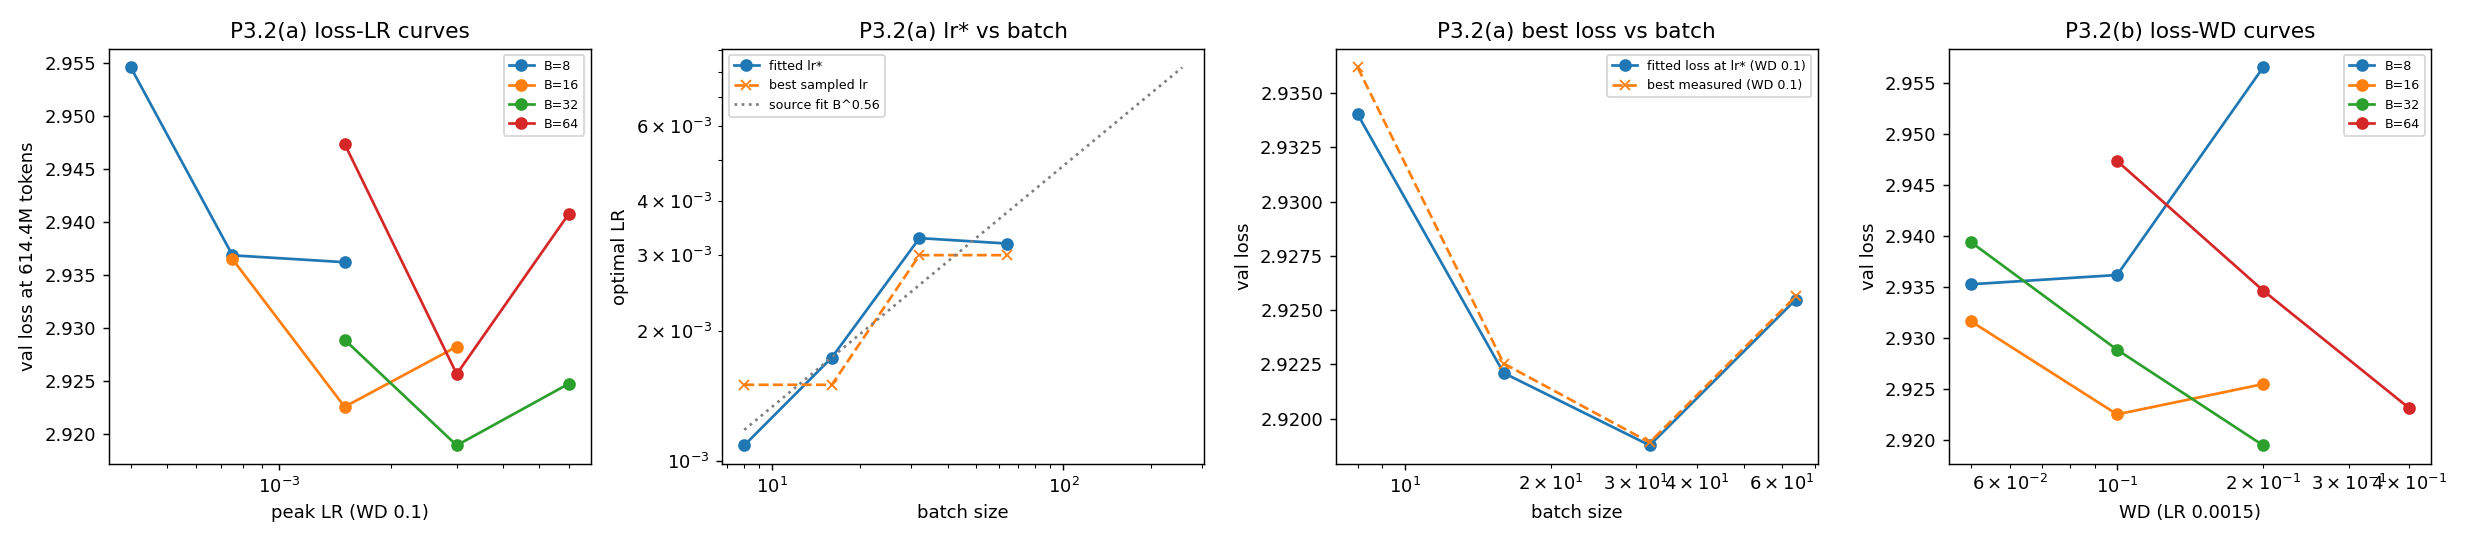
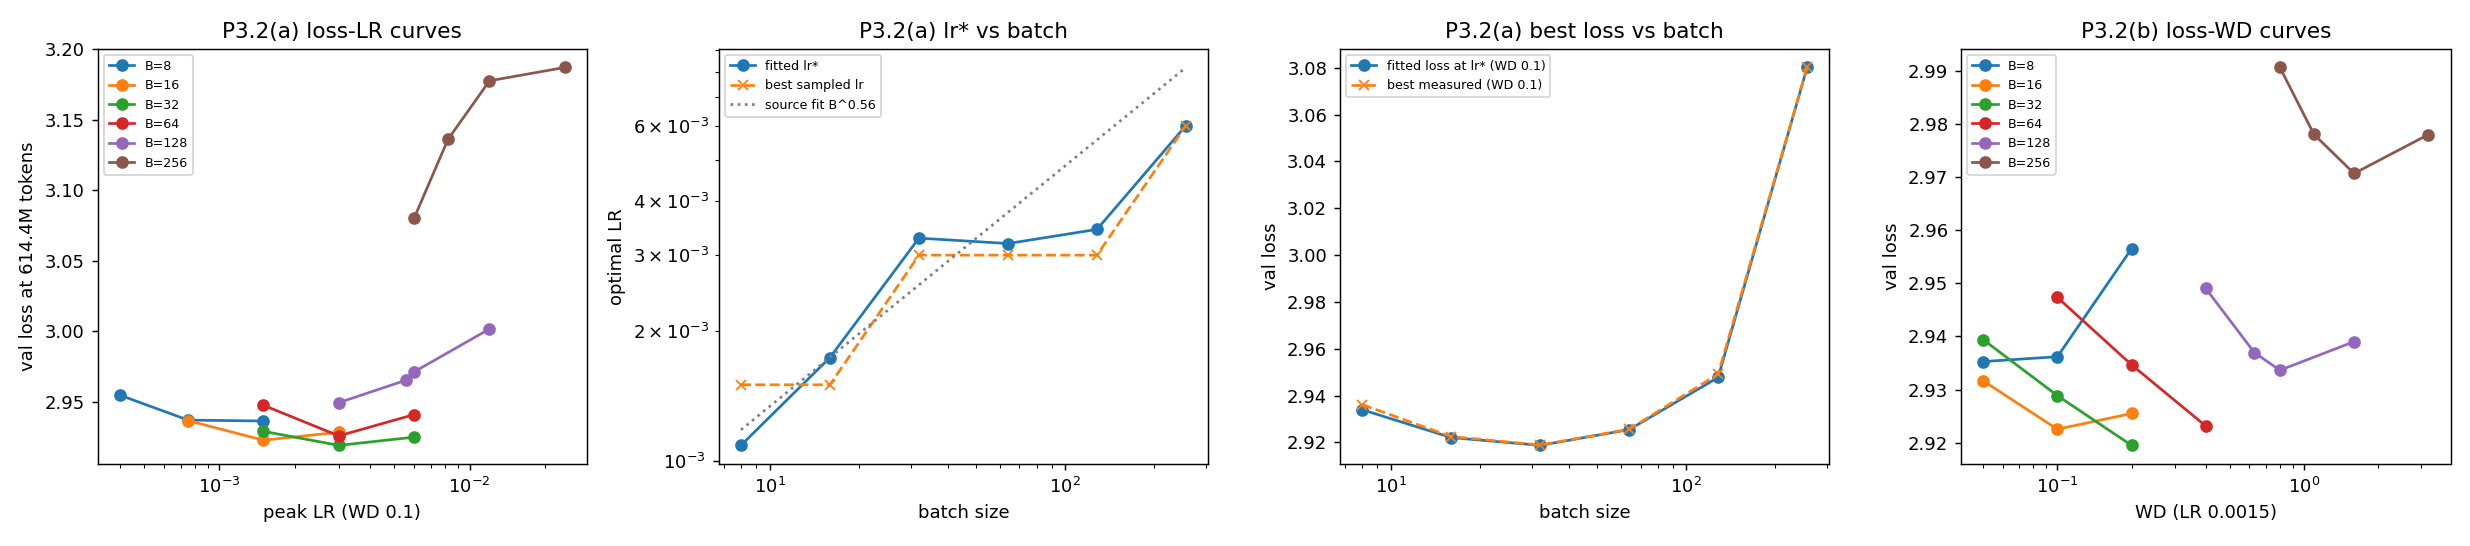
A2 WRITEUP: P3.2 targets, (d) prediction-measurement table, batch-doubling example; β₁@256 manifest

diff --git a/experiments/a2/WRITEUP.md b/experiments/a2/WRITEUP.md
@@ -407,7 +407,105 @@ keeps the per-update step size matched to the lower gradient noise, while hypoth
 small step and tries to compensate with a very strong decay, which at these values (ηλ ≈ 0.001–0.002
 per update, a window of only 500–1,000 updates out of 2,300–4,700) starts to erase learning.
 
-**P3.2_TARGETS_PLACEHOLDER**
+Measured targets (one run per point, 614.4M tokens):
+
+| target batch | hypothesis i (wd 0.1): lr → loss | hypothesis ii (lr 0.0015): wd → loss |
+|---|---|---|
+| 128 | 0.003 → **2.949** · 0.0056 (pred) → 2.965 · 0.006 → 2.971 · 0.012 → 3.002 | 0.4 → 2.949 · 0.63 (pred) → 2.937 · 0.8 → **2.934** · 1.6 → 2.939 |
+| 256 | 0.006 → **3.080** · 0.0082 (pred) → 3.136 · 0.012 → 3.178 · 0.024 → 3.187 | 0.8 → 2.991 · 1.1 (pred) → 2.978 · 1.6 → **2.971** · 3.2 → 2.978 |
+
+**Answer.** Hypothesis ii wins at both targets, and not by a little: 2.934 vs 2.949 at batch 128
+(0.015) and 2.971 vs 3.080 at batch 256 (0.11). Our prediction was wrong. Two things went wrong
+with hypothesis i and one thing went right with hypothesis ii:
+
+1. The learning-rate optimum stopped rising. From batch 8 to 32 it grew like B^0.56; from 32 to
+   64 it was flat (0.0033 → 0.0032); at 128 the fit says 0.0034 — the same value again — and at
+   256 the best point is the *lowest* learning rate we tried (0.006), so the optimum there is at
+   or below it. Extrapolating the B^0.56 power law to 0.0056 and 0.0082 overshot, and the loss
+   curve is steep on the high side (0.012 at batch 256 costs 0.1).
+2. At weight decay 0.1, large batches simply lose: even the best batch-256 point (3.080) is 0.16
+   worse than batch 32 (2.919). With 2,344 updates instead of 18,750, fixed per-update decay
+   gives an 8× longer memory in tokens, and the model carries early, badly-fitted weights to the
+   end.
+3. The weight-decay optimum doubled every time the batch doubled: best sampled 0.1 (16), 0.2
+   (32), 0.4 (64), 0.8 (128), 1.6 (256), and the fitted optima at the targets are 0.95 (128) and
+   1.88 (256) — exactly wd* ∝ B. The proportional rule we listed as the alternative (0.95 / 1.91)
+   predicted both to within 2 %; the interior power-law fit (B^0.80 → 0.63 / 1.1) undershot
+   because two of its four source points were grid-edge lower bounds. Scaling weight decay this way keeps
+   η·λ·(updates per token) — the decay timescale measured in *tokens* — constant, which is the
+   same quantity P2 found mattered.
+
+Even with the right weight decay, batch 256 is 0.05 worse than batch 32 at this token budget
+(2.971 vs 2.919): fewer updates cannot be fully bought back by either knob. Batch 128 nearly can
+(2.934, 0.015 behind).
+
+### (c) Does momentum matter more or less at large batch?
+
+Held fixed: each batch's best measured pair (batch 8: lr 0.0015, wd 0.05; batch 256: lr 0.0015,
+wd 1.6), β₂ = 0.95, 614.4M tokens. Trimmed to β₁ ∈ {0, 0.5, 0.98} plus the existing β₁ = 0.9 run.
+
+**P3.2C_PLACEHOLDER**
+
+### (d) What does the NQM explain?
+
+| quantity | NQM prediction (P3.1) | language model (P3.2) | verdict |
+|---|---|---|---|
+| lr* vs batch, low noise | ∝ B^0.9–1.0 | ∝ B^0.56 for 8→32, then flat, then *lower* at 128–256 (0.003 → 2.949 beats 0.0056 → 2.965; 0.006 → 3.080 beats 0.0082 → 3.136) | fails above batch ≈ 32: the NQM has no "critical batch size" where more sequences per update stop reducing useful noise |
+| lr* vs batch, high noise | ∝ B^0.5 | B^0.56 in the small-batch range | agrees where the LM is noise-limited |
+| best loss vs batch at fixed tokens | NQM at fixed steps: bigger batch always better | fixed tokens: 2.934 (8) → 2.919 (32) → 2.925 (64) → 2.934 (128, retuned) → 2.971 (256, retuned) | not comparable as stated: the NQM in P3.1 was run at fixed step counts, the LM at fixed tokens; the LM's penalty is the update count |
+| weight decay vs batch | not modelled (no weight decay in the NQM) | wd* ∝ B exactly, 0.1 → 1.6 over 16 → 256; keeping wd fixed costs 0.11 at batch 256 | an effect the NQM does not model, not a failed prediction |
+| momentum (β₁) | helps slightly at small batch, hurts at large batch unless lr is retuned | P3.2C_TABLE_REF | P3.2C_VERDICT |
+
+The change that would fix the biggest disagreement: give the NQM a *per-coordinate noise floor
+that does not shrink with batch* (or equivalently a finite set of "useful" directions), so the
+gradient-noise reduction from batch saturates. Then the optimal step stops growing past a critical
+batch, and the fixed-token loss gets worse past it because there are fewer updates — which is what
+we measured. Adding an L2 term with a decay timescale in updates would also let it reproduce the
+wd* ∝ B rule.
+
+**How to think about it.**
+1. Two currencies: tokens (what you pay for) and updates (what moves the weights). Doubling the
+   batch halves the updates per token. Everything in this problem is about which hyperparameter
+   is "per update" and needs rescaling.
+2. Learning rate is per update, but the step you can afford is capped by curvature, not only by
+   noise. Once the batch is big enough that noise is no longer the limit (here around 32–64 at
+   614M tokens), a bigger batch does not buy a bigger step — that is the critical batch size,
+   and the NQM's low-noise regime does not have one because its noise never stops averaging down.
+3. Weight decay is also per update: the memory of the optimizer is 1/(ηλ) updates. Keep ηλ fixed
+   while halving updates per token and you doubled the memory in tokens. The wd* ∝ B result is
+   exactly "keep the memory constant in tokens". It is the same rule as P2's lr × wd product,
+   with batch size as the third factor.
+4. Why hypothesis ii dominates even though the learning rate was *not* retuned: at these batch
+   sizes the learning-rate optimum had already stopped moving, so there was nothing to gain on
+   that side, while the weight-decay optimum kept moving by 2× per doubling.
+5. Takeaway rule for this model: when you change batch size at fixed tokens, keep the learning
+   rate near its batch-32–64 value and scale weight decay in proportion to the batch; expect a
+   loss penalty for batch ≥ 128 anyway because of the lost updates.
+
+### Example question — double the batch size mid-run (Hard)
+
+Setup: batch 64 → 128 at 307.2M of 614.4M tokens, lr 0.0015, wd 1.6, Adam moments kept, schedule
+in tokens. Policies: A nothing, B lr × √2, C lr × 2, D wd × √2, E wd × 2.
+
+**Pick: A (change nothing), with D close behind; expected spread across A/B/D ≲ 0.01 and C/E
+measurably worse.** Reasoning from our curves:
+
+1. The per-update learning rate does not need to go up: at batch 128 the best measured learning
+   rate is at or below 0.003, and at a large weight decay the product ηλ matters, so B and C
+   push the product (0.0024 → 0.0034 / 0.0048 per update) toward too-short a memory. C doubles
+   the step on top of that in the half of training where the schedule is already decaying.
+2. The run starts at wd 1.6, which at lr 0.0015 is 4× the batch-64 optimum we measured for
+   614M tokens (0.4). Doubling the batch halves the per-token decay, which moves the second half
+   *toward* its optimum (at batch 128, 0.8 → 2.934 and 1.6 → 2.939 are a flat pair). Policy A gets
+   that for free. E restores the over-strong per-token decay (at batch 256, wd 3.2 was 0.007
+   worse than 1.6); D is halfway.
+3. Mechanically, after the switch each update sees a gradient with half the noise and the same
+   curvature, so the safe step is unchanged or slightly larger; what halves is how often the
+   decay is applied. With the decay already too strong, fewer applications is a feature.
+4. Caveat: the first half at batch 64 with wd 1.6 is itself off-optimum, so all five policies
+   land near each other; this is a "small differences" question. If the setup had used the
+   tuned wd 0.4 at batch 64, we would pick E, because then keeping the token-timescale constant
+   is what matters and wd* ∝ B says double it.
 
 ---
 
